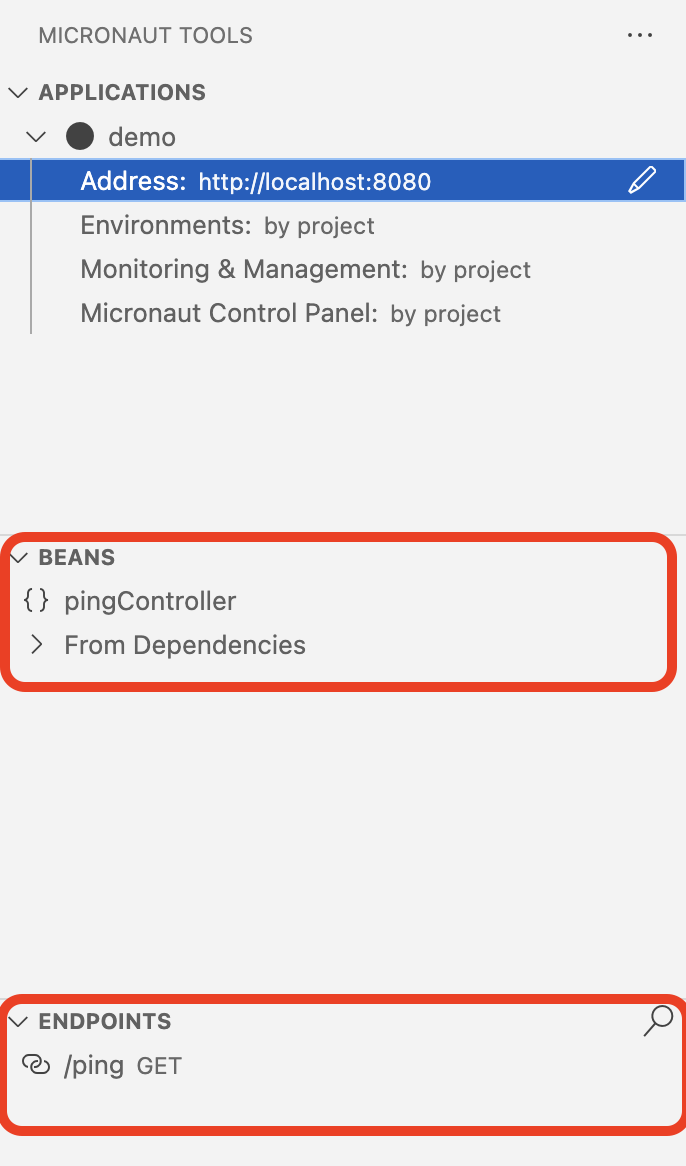
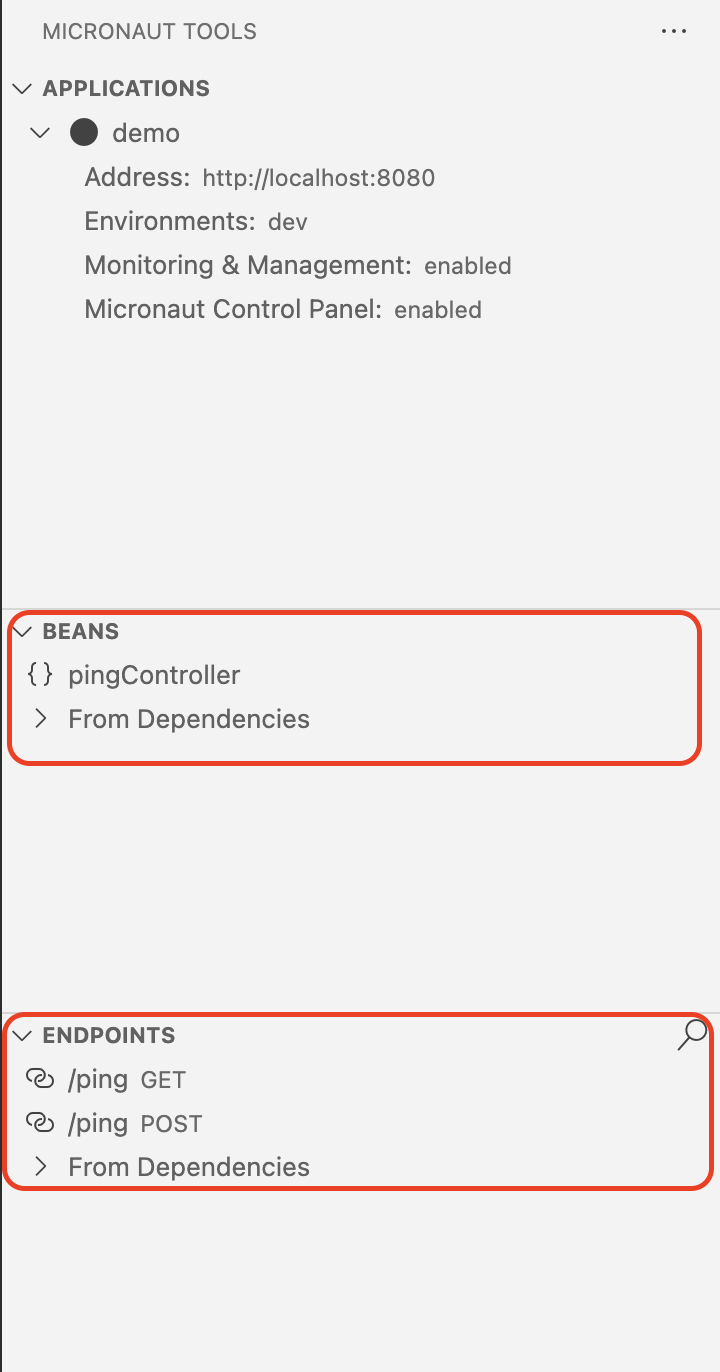
Updates

Changed region(s): [[0.0, 0.7101, 1.0, 0.988], [0.0, 0.0, 1.0, 0.2779], [0.0, 0.4322, 1.0, 0.6175]]

diff --git a/vscode-tools-for-micronaut/README.md b/vscode-tools-for-micronaut/README.md
@@ -81,6 +81,7 @@ For this lab you will need to install the following two extensions into VS Code:
 
 * [MS Extension Pack for Java](https://marketplace.visualstudio.com/items?itemName=vscjava.vscode-java-pack).
 * [Tools for Micronaut® Framework](https://marketplace.visualstudio.com/items?itemName=oracle-labs-graalvm.micronaut-tools).
+* [REST Client](https://marketplace.visualstudio.com/items?itemName=humao.rest-client).
 
 You can install it directly from within the VS Code marketplace, using the links above, or through the extensions activity view within VS Code.
 
@@ -163,7 +164,7 @@ You can trigger code completion, Intellisense, and suggestions within VS Code us
 ![keyboard](./images/keyboard.jpg)
 
 Over to you:
-* Add a `@POST` method to the controller you just created. It doesn't need to do anything with the payload.
+* Add a `@Post` method to the controller you just created. It doesn't need to do anything with the payload.
 * What other methods can be added to the controller?
 * What code completions and code generations would you like to see added? Please make a note.
 
@@ -254,7 +255,7 @@ By clicking on the, `Send Request`, text above the `curl`-like query string we c
 
 Over to you:
 * Use the Compose REST Query editor to call your endpoint.
-* Add another endpoint, using `POST`, and compose a query and call it.
+* Call the `/ping` `POST` endpoint, and compose a query and call it.
 * Are there any features you would like to see? Please make a note.
 
 ### 4.4 - Add the Micronaut Control Panel to your application
@@ -293,7 +294,7 @@ First, stop your running application, so that we can update its configuration, a
 Over to you:
 * Enable Monitoring and management for your application. Restart the application.
 * Take a look within the `MONITORING & MANAGEMENT` panel. Notice what properties of the running application are now visible within the IDE. 
-* Add a custom logger to your application and some custom logging to your controller. Restart the application & play with controlling the logging from within the `MONITORING & MANAGEMENT` panel. We also have support for managing caches in a very similar manner.
+* Add a custom logger to your application and some custom logging to your controller. Look in the `MONITORING & MANAGEMENT` panel, under management. Restart the application & play with controlling the logging from within the `MONITORING & MANAGEMENT` panel. We also have support for managing caches in a very similar manner.
 * What other features would you expect to see here? Please make a note.
 
 
@@ -600,11 +601,23 @@ This is great if you want to save this configuration and use it in a deployed en
 
 We should now add some code to use the object storage bucket. The following code is taken from the Micronaut Guide: [USE THE MICRONAUT OBJECT STORAGE API TO STORE FILES IN ORACLE CLOUD INFRASTRUCTURE (OCI) OBJECT STORAGE](https://guides.micronaut.io/latest/micronaut-object-storage-oracle-cloud.html).
 
-Create the following Java interface in your application, with the location: `src/main/java/example/micronaut/ProfilePicturesApi.java`:
+Create the following Java interface in your application, with the location: `src/main/java/com/example/controllers/ProfilePicturesApi.java`:
 
 ![](images/RMIL_Technology_Laptop_Bark_RGB_50.png#input)
 ```java
-package com.example;
+package com.example.controllers;
+
+import java.util.Optional;
+import io.micronaut.http.HttpRequest;
+import io.micronaut.http.HttpResponse;
+import io.micronaut.http.MediaType;
+import io.micronaut.http.HttpStatus;
+import io.micronaut.http.annotation.Delete;
+import io.micronaut.http.annotation.Get;
+import io.micronaut.http.annotation.Post;
+import io.micronaut.http.annotation.Status;
+import io.micronaut.http.multipart.CompletedFileUpload;
+import io.micronaut.http.server.types.files.StreamedFile;
 
 public interface ProfilePicturesApi {
 
@@ -620,12 +633,12 @@ public interface ProfilePicturesApi {
 }
 ```
 
-And now create the following controller in your application, with the location: `src/main/java/example/micronaut/ProfilePicturesApi.java`:
+And now create the following controller in your application, with the location: `src/main/java/com/example/controllers/ProfilePicturesApi.java`:
 
 
 ![](images/RMIL_Technology_Laptop_Bark_RGB_50.png#input)
 ```java
-package com.example;
+package com.example.controllers;
 
 import io.micronaut.http.HttpRequest;
 import io.micronaut.http.HttpResponse;
